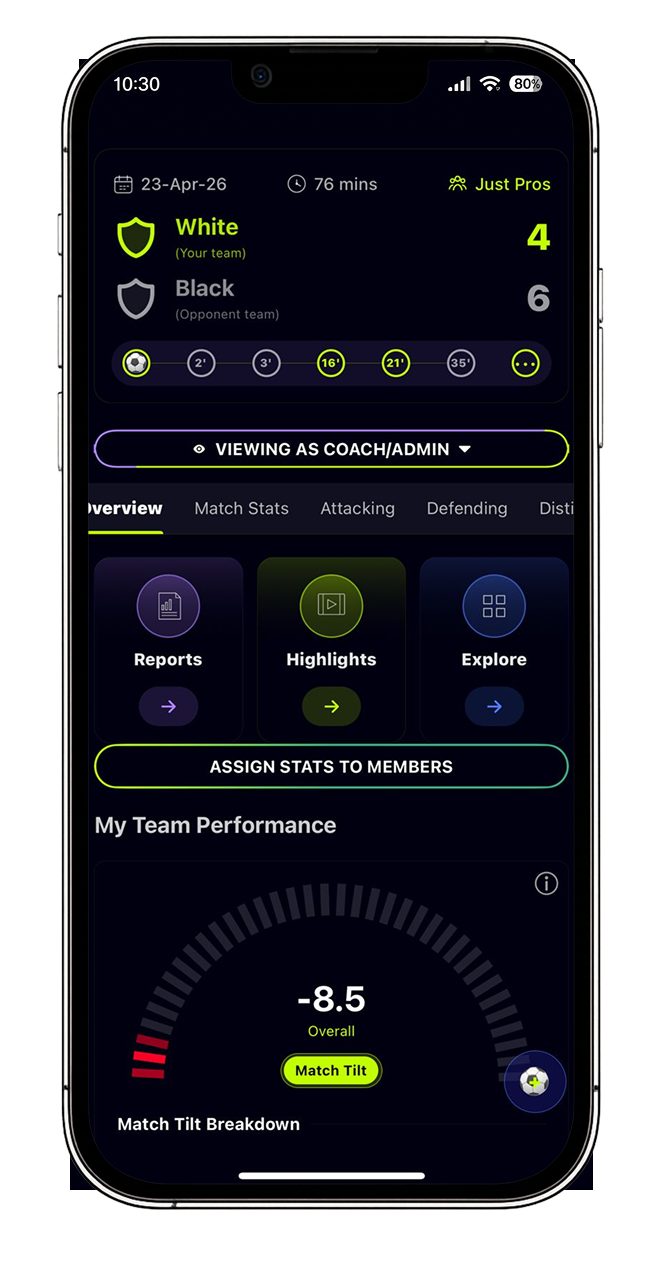
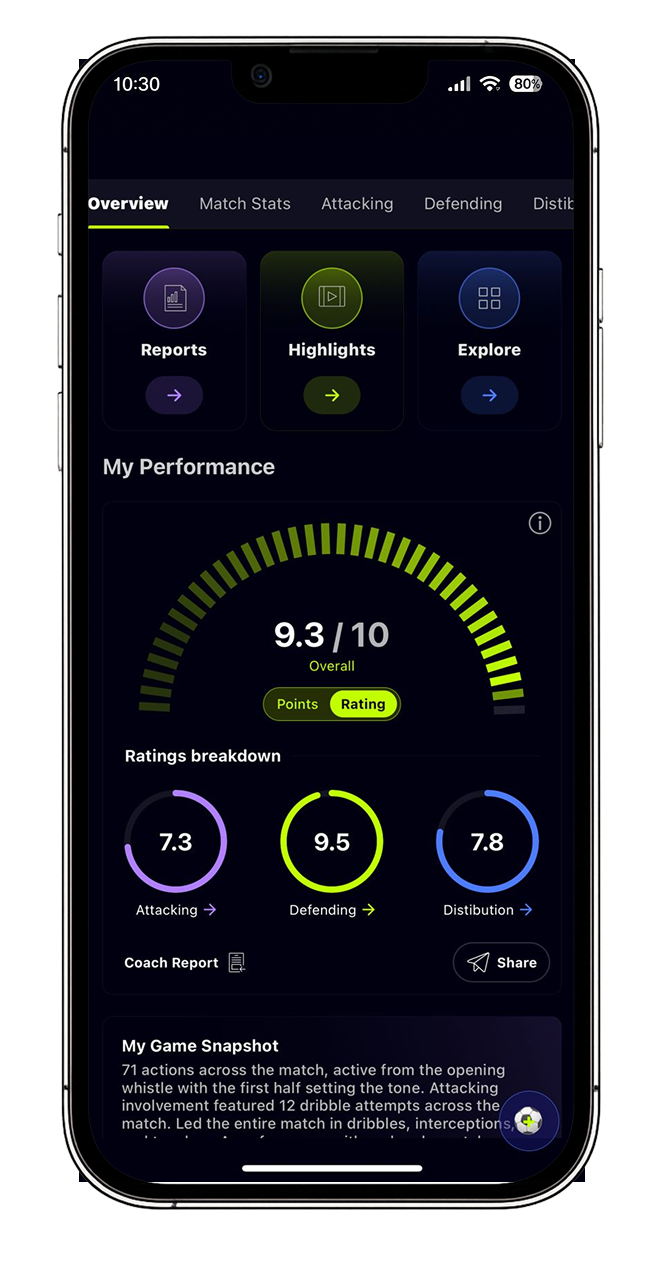
feature 2 3 img update

diff --git a/src/components/WhyChooseUsSection.tsx b/src/components/WhyChooseUsSection.tsx
@@ -23,7 +23,7 @@ const reasons: Reason[] = [
   {
     title: "Builds your sporting identity",
     description:
-      "PlayerNation isn't just for today's game. It's a living record of your performances, memories and milestones.",
+      "PlayerNation is a living record of your performances, memories and milestones.",
     icon: "/Trophy.svg",
   },
 ];